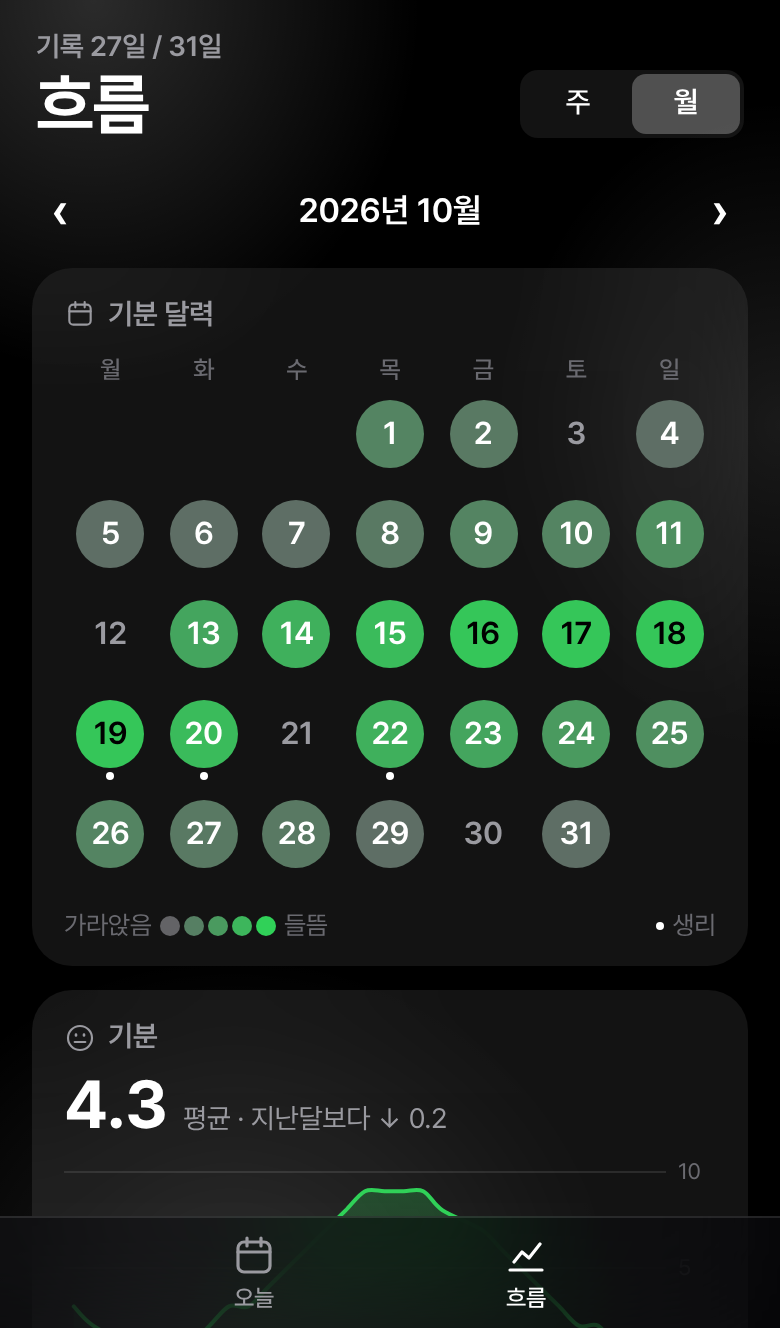
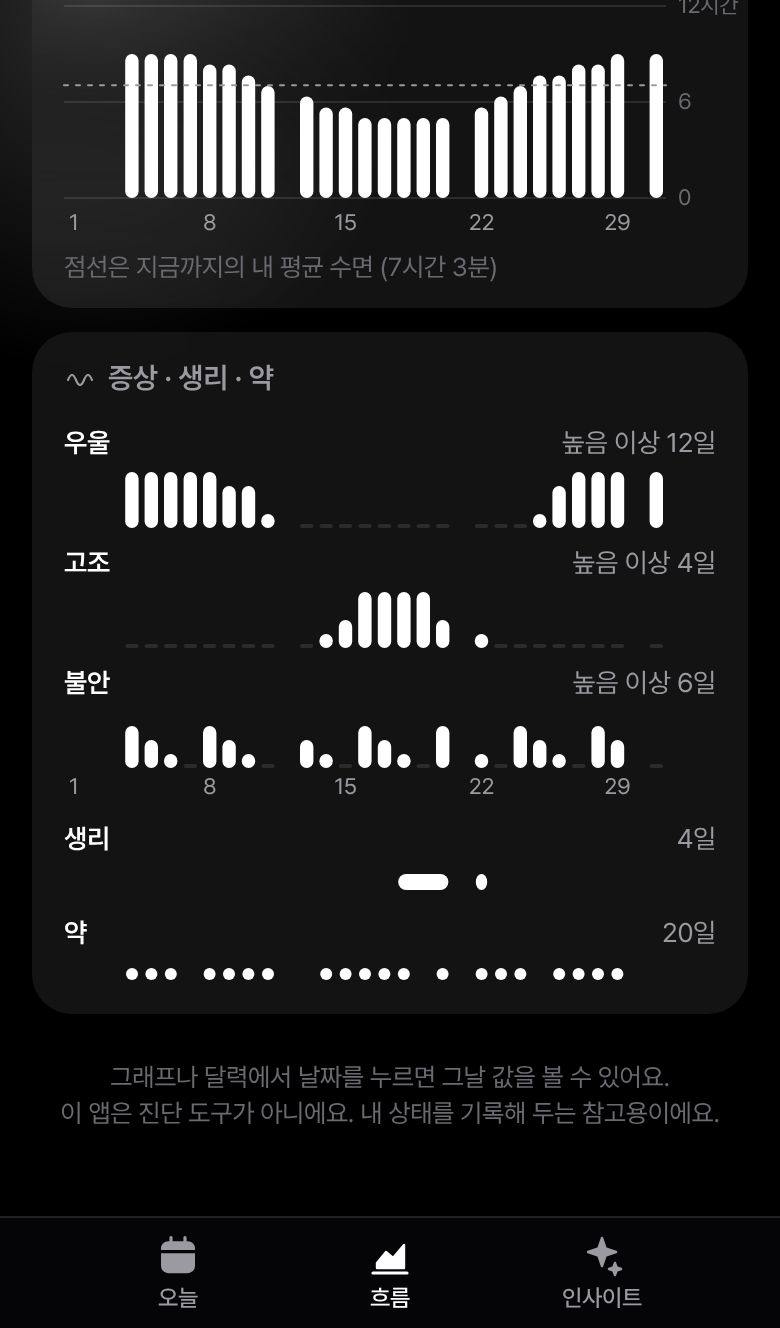
Tide: one fixed background light, steady medication rows, symptom chart as bars
- background light is a single fixed layer, so long pages no longer show it twice
- a medication row keeps its height after the first dose; later doses wrap below
- symptoms draw as bars whose height is the level, period as a band, meds as dots, with a plain-language summary on the right
- fix a broken colour value in the old symptom strip

Claude-Session: https://claude.ai/code/session_01Du4KAy7crrN67i73oW7iBF

diff --git a/mood/js/views/trend.js b/mood/js/views/trend.js
@@ -1,9 +1,10 @@
 // 흐름 화면 (주 / 월)
-import { DISCLAIMER, nameOf } from '../constants.js';
+import { DISCLAIMER, LEVELS, nameOf } from '../constants.js';
 import { WD, addDays, ds, durText, longDate, md, monthTitle, parse, today, weekStart } from '../dates.js';
 import { app } from '../dom.js';
 import { EN, F, T } from '../i18n.js';
 import { IC } from '../icons.js';
+import { medsFor } from '../meds.js';
 import { trend } from '../state.js';
 import { db } from '../store.js';
 import { fontScale, moodFill, tone } from '../theme.js';
@@ -41,8 +42,8 @@ export function smoothPath(pts, yMin, yMax) {
 
 export function viewTrend() {
   const C = document.documentElement.dataset.theme === 'light'
-    ? { ink: '#0b0b0c', ring: '#fff', grid: 'rgba(0,0,0,.08)', muted: '#6b6b70', faint: '#a0a0a6', shade: ['rgba(0,0,0,.06)', '#c7c7cc', '#8e8e93', '#48484a', '#000'] }
-    : { ink: '#fff', ring: '#1c1c1e', grid: 'rgba(255,255,255,.1)', muted: '#9a9aa0', faint: '#6a6a70', shade: ['rgba(255,255,255,.08)', '#5a5a5e', '#8e8e93', '#c7c7cc', '#fff'] };
+    ? { ink: '#0b0b0c', ring: '#fff', grid: 'rgba(0,0,0,.08)', muted: '#6b6b70', faint: '#a0a0a6' }
+    : { ink: '#fff', ring: '#1c1c1e', grid: 'rgba(255,255,255,.1)', muted: '#9a9aa0', faint: '#6a6a70' };
   const t = today(), r = trendRange(trend.anchor), prev = trendRange(shiftAnchor(trend.anchor, -1));
   const days = rangeEntries(r), got = days.filter(Boolean), before = rangeEntries(prev).filter(Boolean);
   const isWeek = trend.mode === 'week';
@@ -58,14 +59,14 @@ export function viewTrend() {
   const FS = fontScale(), AX = Math.round(26 * FS), W = Math.max(160, Math.min(app.clientWidth, 480) - 28 - 32 - AX), col = W / r.n;
   const cx = (i) => col * (i + 0.5);
   const TOP = 8, BOT = 104, H = 124;
-  const xLabels = days.map((_, i) => {
+  const xLabelsAt = (y) => days.map((_, i) => {
     const d = addDays(r.start, i), dt = parse(d);
     if (!isWeek && (dt.getDate() - 1) % 7 !== 0) return '';
-    return `<text x="${cx(i).toFixed(1)}" y="${H - 4}" text-anchor="middle" font-size="${(10 * FS).toFixed(1)}" fill="${d === t ? C.ink : C.muted}">${isWeek ? WD()[dt.getDay()] : dt.getDate()}</text>`;
+    return `<text x="${cx(i).toFixed(1)}" y="${y}" text-anchor="middle" font-size="${(10 * FS).toFixed(1)}" fill="${d === t ? C.ink : C.muted}">${isWeek ? WD()[dt.getDay()] : dt.getDate()}</text>`;
   }).join('');
   const grid = (ticks, y) => ticks.map(([v, label]) => `<line x1="0" x2="${W}" y1="${y(v).toFixed(1)}" y2="${y(v).toFixed(1)}" stroke="${C.grid}"/>
     <text x="${W + 6}" y="${(y(v) + 3.5).toFixed(1)}" font-size="${(10 * FS).toFixed(1)}" fill="${C.faint}">${label}</text>`).join('');
-  const plot = (inner) => `<div class="plot" data-n="${r.n}" data-w="${W}"><svg width="${W + AX}" height="${H}">${inner}${xLabels}</svg></div>`;
+  const plot = (inner) => `<div class="plot" data-n="${r.n}" data-w="${W}"><svg width="${W + AX}" height="${H}">${inner}${xLabelsAt(H - 4)}</svg></div>`;
 
   // 카드 머리: 평소에는 평균, 날짜를 누르면 그날 값
   const fmtSleep = (m) => `${Math.floor(m / 60)}<small>${T('시간')}</small> ${Math.round(m % 60)}<small>${T('분')}</small>`;
@@ -138,20 +139,43 @@ export function viewTrend() {
       <div class="mnote calkey"><span>${T('가라앉음')} ${scale} ${T('들뜸')}</span><span><i class="pdot"></i> ${T('생리')}</span></div></section>`;
   };
 
-  // 증상·생리·약: 날짜별 칸
-  const SHADE = ['${C.grid}', '#5a5a5e', C.muted, '#c7c7cc', C.ink];
-  const strip = (name, cell) => `<div class="srow"><svg width="${W}" height="18">${days.map((e, i) => (e ? cell(e, i) : '')).join('')}${
-    pick == null ? '' : `<rect x="${(col * pick).toFixed(1)}" y="0" width="${col.toFixed(1)}" height="18" rx="4" fill="none" stroke="${C.ink}"/>`}</svg><span>${name}</span></div>`;
-  const gap = isWeek ? 4 : 1.5;
-  const level = (key) => (e, i) => `<rect x="${(col * i + gap / 2).toFixed(1)}" y="2" width="${(col - gap).toFixed(1)}" height="14" rx="${isWeek ? 5 : 3}" fill="${SHADE[e[key] || 0]}"/>`;
-  const dot = (test) => (e, i) => (test(e) ? `<circle cx="${cx(i).toFixed(1)}" cy="9" r="${isWeek ? 4.5 : Math.min(3, col / 2 - 1)}" fill="${C.ink}"/>` : '');
+  // 증상 · 생리 · 약: 항목마다 한 줄. 증상은 막대 높이가 정도, 생리는 이어진 띠, 약은 점.
+  const RH = 30, bw = isWeek ? 20 : Math.max(3, col - 3);
+  const guide = (h) => (pick == null ? '' : `<line x1="${cx(pick).toFixed(1)}" x2="${cx(pick).toFixed(1)}" y1="0" y2="${h}" stroke="${C.muted}"/>`);
+  const inkAt = (i) => (pick == null || pick === i ? C.ink : C.faint);
+  const srow = (name, right, h, inner) => `<div class="srow"><div class="sh"><span>${name}</span><span>${right}</span></div><svg width="${W}" height="${h}">${inner}${guide(h)}</svg></div>`;
+  const symRow = (key, name) => {
+    const high = got.filter((e) => e[key] >= 3).length, max = Math.max(0, ...got.map((e) => e[key] || 0));
+    const right = pickDate ? (pickE ? LEVELS[pickE[key] || 0] : '–') : high ? F('높음 이상 {0}일', high) : max ? F('가장 높은 날 {0}', LEVELS[max]) : T('없음');
+    return srow(name, right, RH, days.map((e, i) => {
+      if (!e) return '';
+      const h = e[key] ? (e[key] / 4) * (RH - 2) : 2;   // 없음인 날은 바닥에 얇은 줄만
+      return `<rect x="${(cx(i) - bw / 2).toFixed(1)}" y="${(RH - h).toFixed(1)}" width="${bw.toFixed(1)}" height="${h.toFixed(1)}" rx="${Math.min(bw / 2, 4, h / 2).toFixed(1)}" fill="${e[key] ? inkAt(i) : C.grid}"/>`;
+    }).join(''));
+  };
+  const periodRow = () => {
+    let out = '', n = 0;
+    for (let i = 0; i < r.n; i++) {
+      if (!(days[i] && days[i].period)) continue;
+      let j = i;
+      while (j + 1 < r.n && days[j + 1] && days[j + 1].period) j++;
+      out += `<rect x="${(col * i + 2).toFixed(1)}" y="4" width="${(col * (j - i + 1) - 4).toFixed(1)}" height="8" rx="4" fill="${C.ink}"/>`;
+      n += j - i + 1;
+      i = j;
+    }
+    return srow(T('생리'), pickDate ? (pickE && pickE.period ? T('생리 중') : '–') : n ? F('{0}일', n) : T('없음'), 16, out);
+  };
+  const medRow = () => {
+    const counts = days.map((_, i) => medsFor(addDays(r.start, i)).length), n = counts.filter(Boolean).length;
+    return srow(T('약'), pickDate ? (counts[pick] ? F('{0}번', counts[pick]) : '–') : n ? F('{0}일', n) : T('없음'), 16,
+      counts.map((c, i) => (c ? `<circle cx="${cx(i).toFixed(1)}" cy="8" r="${isWeek ? 4.5 : Math.max(1.5, Math.min(3, col / 2 - 1))}" fill="${inkAt(i)}"/>` : '')).join(''));
+  };
   const symptoms = `<section class="card mcard"><div class="mt">${IC.wave}${T('증상 · 생리 · 약')}</div>
     <div class="plot strips" data-n="${r.n}" data-w="${W}">
-      ${strip(T('우울'), level('dep'))}${strip(T('고조'), level('elev'))}${strip(T('불안'), level('anx'))}
-      <div style="height:8px"></div>
-      ${strip(T('생리'), dot((e) => e.period))}${strip(T('약'), dot((e) => e.meds && e.meds.length))}
-    </div>
-    <div class="mnote calkey"><span>${T('없음')} ${SHADE.map((c) => `<i style="background:${c}"></i>`).join('')} ${T('매우 높음')}</span></div></section>`;
+      ${symRow('dep', T('우울'))}${symRow('elev', T('고조'))}${symRow('anx', T('불안'))}
+      <svg width="${W}" height="18">${xLabelsAt(13)}</svg>
+      ${periodRow()}${medRow()}
+    </div></section>`;
 
   app.innerHTML = `
     <header class="top"><div><div class="over">${F('기록 {0}일 / {1}일', got.length, r.n)}</div><h1>${T('흐름')}</h1></div>

diff --git a/mood/app.css b/mood/app.css
@@ -53,8 +53,7 @@
 html { -webkit-text-size-adjust: 100%; }
 body {
   margin: 0;
-  background: var(--glow), var(--bg);
-  background-attachment: fixed;
+  background: var(--bg);
   color: var(--text);
   font-family: var(--font, -apple-system, BlinkMacSystemFont, "Apple SD Gothic Neo", "Noto Sans KR", sans-serif);
   font-size: calc(15px * var(--fs, 1.12));
@@ -64,6 +63,8 @@ body {
   touch-action: manipulation;
   overscroll-behavior-y: none;
 }
+/* 배경 빛은 화면에 고정된 한 겹으로만 그린다 (스크롤 길이와 상관없이 하나) */
+body::before { content: ""; position: fixed; inset: 0; z-index: -1; background: var(--glow); pointer-events: none; }
 body.locked { overflow: hidden; }
 button, input { font: inherit; color: inherit; letter-spacing: inherit; }
 button { border: 0; background: none; padding: 0; cursor: pointer; touch-action: manipulation; text-align: inherit; }
@@ -134,13 +135,18 @@ textarea { display: block; font: inherit; font-size: calc(16px * var(--fs, 1.12)
 /* 약 */
 .med .chk { color: var(--ink); font-size: calc(16px * var(--fs, 1.12)); font-weight: 600; opacity: 0; }
 /* 약 한 줄: 먹은 시각들과 '먹었어요' 버튼 */
-.med-row { flex-wrap: wrap; row-gap: 8px; }
-.doses { display: flex; flex-wrap: wrap; justify-content: flex-end; align-items: center; gap: 6px; margin-left: auto; }
-.dose { display: inline-flex; align-items: center; background: var(--card2); border-radius: 999px; padding-right: 2px; }
+.med-row { min-height: 54px; }
+.med-row.multi { flex-wrap: wrap; row-gap: 8px; }
+.med-row .lk { flex: 1 1 auto; }
+.mn { min-width: 0; overflow: hidden; text-overflow: ellipsis; white-space: nowrap; }
+.mn small { margin-left: 7px; }
+.doses { display: flex; flex: none; justify-content: flex-end; align-items: center; gap: 6px; margin-left: auto; }
+.multi .doses { flex: 1 1 100%; flex-wrap: wrap; }
+.dose { display: inline-flex; align-items: center; height: 34px; background: var(--card2); border-radius: 999px; padding-right: 2px; }
 .dose input[type=time] { background: transparent; padding: 5px 0 5px 10px; font-size: calc(14px * var(--fs, 1.12)); min-width: 0; }
 .dose button { width: 28px; height: 28px; color: var(--muted); font-size: 11px; text-align: center; }
-.take { font-size: calc(13px * var(--fs, 1.12)); font-weight: 600; background: var(--ink); color: var(--ink-inv); border-radius: 999px; padding: 7px 13px; }
-.dose + .take { background: var(--card2); color: var(--text); font-weight: 500; }
+.take { height: 34px; font-size: calc(13px * var(--fs, 1.12)); font-weight: 600; background: var(--ink); color: var(--ink-inv); border-radius: 999px; padding: 0 14px; }
+.take.more { width: 34px; padding: 0; background: var(--card2); color: var(--text); font-size: 18px; font-weight: 400; text-align: center; }
 .med[aria-pressed=true] .chk { opacity: 1; }
 .li.add { justify-content: flex-start; font-weight: 500; }
 .med-new { flex-wrap: wrap; gap: 8px; padding: 12px 16px; }
@@ -227,8 +233,9 @@ ol.steps li { margin: 3px 0; }
 .plot svg { display: block; overflow: visible; }
 .mnote { color: var(--faint); font-size: calc(11.5px * var(--fs, 1.12)); margin-top: 6px; }
 .strips { margin-top: 12px; }
-.srow { display: flex; align-items: center; gap: 6px; height: 22px; }
-.srow span { color: var(--muted); font-size: calc(10.5px * var(--fs, 1.12)); white-space: nowrap; }
+.srow { margin-top: 8px; }
+.sh { display: flex; justify-content: space-between; margin: 0 0 4px; font-size: calc(12px * var(--fs, 1.12)); color: var(--muted); }
+.sh span:first-child { color: var(--text); font-weight: 600; }
 .calkey { display: flex; justify-content: space-between; align-items: center; margin-top: 10px; }
 .calkey i { display: inline-block; width: 10px; height: 10px; border-radius: 50%; margin: 0 1px; vertical-align: -1px; }
 .calkey i.pdot { display: inline-block; vertical-align: 2px; }

diff --git a/mood/js/meds.js b/mood/js/meds.js
@@ -36,15 +36,17 @@ export function medsText(list) {
 }
 
 // 약마다 한 줄: 먹은 시각들(고칠 수 있음)과 '먹었어요' 버튼. 오늘 화면과 기록 화면이 같이 쓴다.
+// 한 번 먹은 것까지는 한 줄에 들어가서 줄 높이가 안 바뀐다. 두 번째부터 아래 줄로 내려간다.
 export function doseRowsHtml(list) {
   const all = db.meds.concat(list.filter((m, i) => !db.meds.some((x) => medKey(x) === medKey(m)) && list.findIndex((y) => medKey(y) === medKey(m)) === i));
   return all.map((m) => {
     const key = medKey(m), doses = list.map((x, i) => [x, i]).filter(([x]) => medKey(x) === key);
-    return `<div class="li med-row">
-      <span class="lk">${IC.pill}${esc(m.name)}${m.dose ? `<small>${esc(m.dose)}</small>` : ''}</span>
+    return `<div class="li med-row${doses.length > 1 ? ' multi' : ''}">
+      <span class="lk">${IC.pill}<span class="mn">${esc(m.name)}${m.dose ? `<small>${esc(m.dose)}</small>` : ''}</span></span>
       <span class="doses">${doses.map(([x, i]) => `<span class="dose"><input type="time" class="dose-at" data-i="${i}" value="${esc(x.at || '')}" aria-label="${T('먹은 시각')}">
         <button type="button" data-act="doseDel" data-i="${i}" aria-label="${T('삭제')}">✕</button></span>`).join('')}
-        <button type="button" class="take" data-act="doseAdd" data-med="${esc(key)}">${doses.length ? T('+ 한 번 더') : T('먹었어요')}</button></span>
+        ${doses.length ? `<button type="button" class="take more" data-act="doseAdd" data-med="${esc(key)}" aria-label="${T('한 번 더')}">+</button>`
+    : `<button type="button" class="take" data-act="doseAdd" data-med="${esc(key)}">${T('먹었어요')}</button>`}</span>
     </div>`;
   }).join('');
 }

diff --git a/mood/sw.js b/mood/sw.js
@@ -1,7 +1,7 @@
 // 오프라인에서도 열리도록 앱 파일을 저장해 둔다.
 // 인터넷이 될 때는 항상 최신 파일을 먼저 받아오고, 안 될 때만 저장본을 쓴다.
 // 앱 파일을 바꿔서 올릴 때마다 CACHE 숫자를 하나 올린다. js/ 에 파일을 더하면 JS 목록에도 더한다.
-const CACHE = 'tide-v24';
+const CACHE = 'tide-v25';
 const JS = ['main', 'config', 'i18n', 'constants', 'store', 'dates', 'theme', 'icons', 'dom', 'state', 'meds', 'analysis', 'files', 'render',
   'views/today', 'views/trend', 'views/insight', 'views/record', 'views/settings'];
 const FILES = ['./', 'index.html', 'app.css', 'manifest.webmanifest',

diff --git a/mood/js/i18n.js b/mood/js/i18n.js
@@ -13,7 +13,11 @@ const DICT = {
   '크게': 'Large',
   '아주 크게': 'Extra large',
   '먹었어요': 'Taken',
-  '+ 한 번 더': '+ Again',
+  '한 번 더': 'Once more',
+  '높음 이상 {0}일': '{0} days high or above',
+  '가장 높은 날 {0}': 'Highest: {0}',
+  '{0}일': '{0} days',
+  '{0}번': '{0} times',
   '먹은 시각': 'Time taken',
   '수면은 적지 않기': 'Skip sleep',
   '오늘 있었던 일이나 느낀 점': 'What happened or how you felt today',
